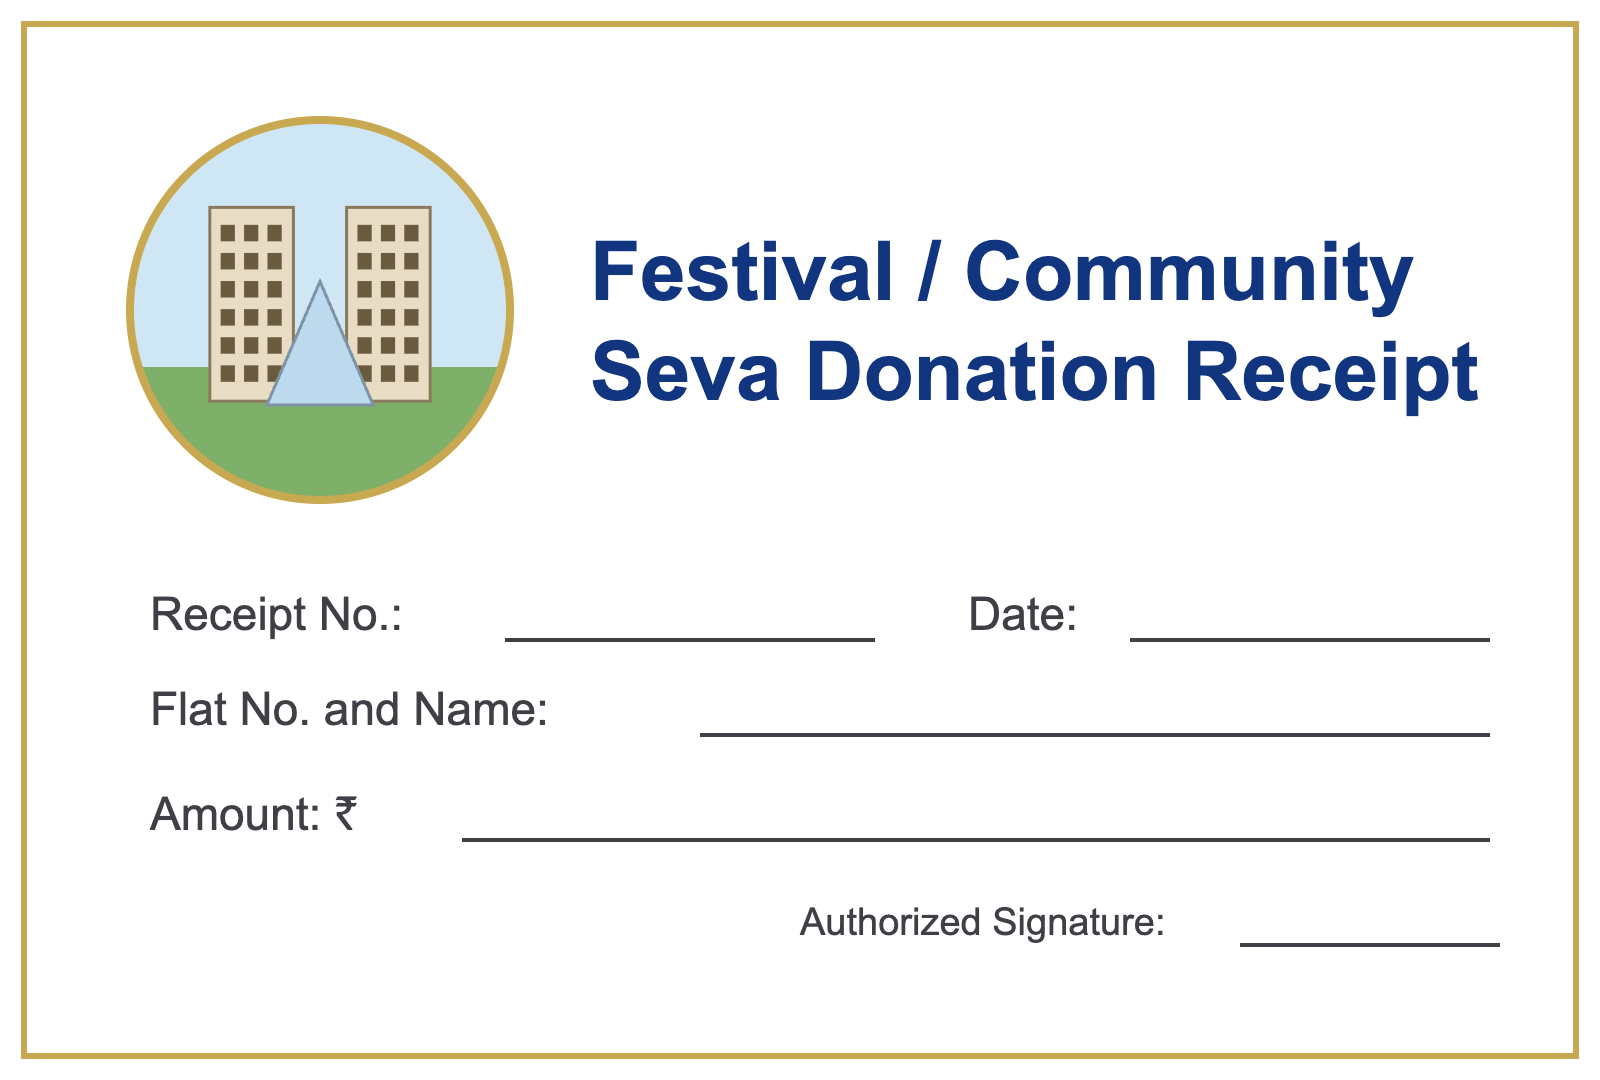
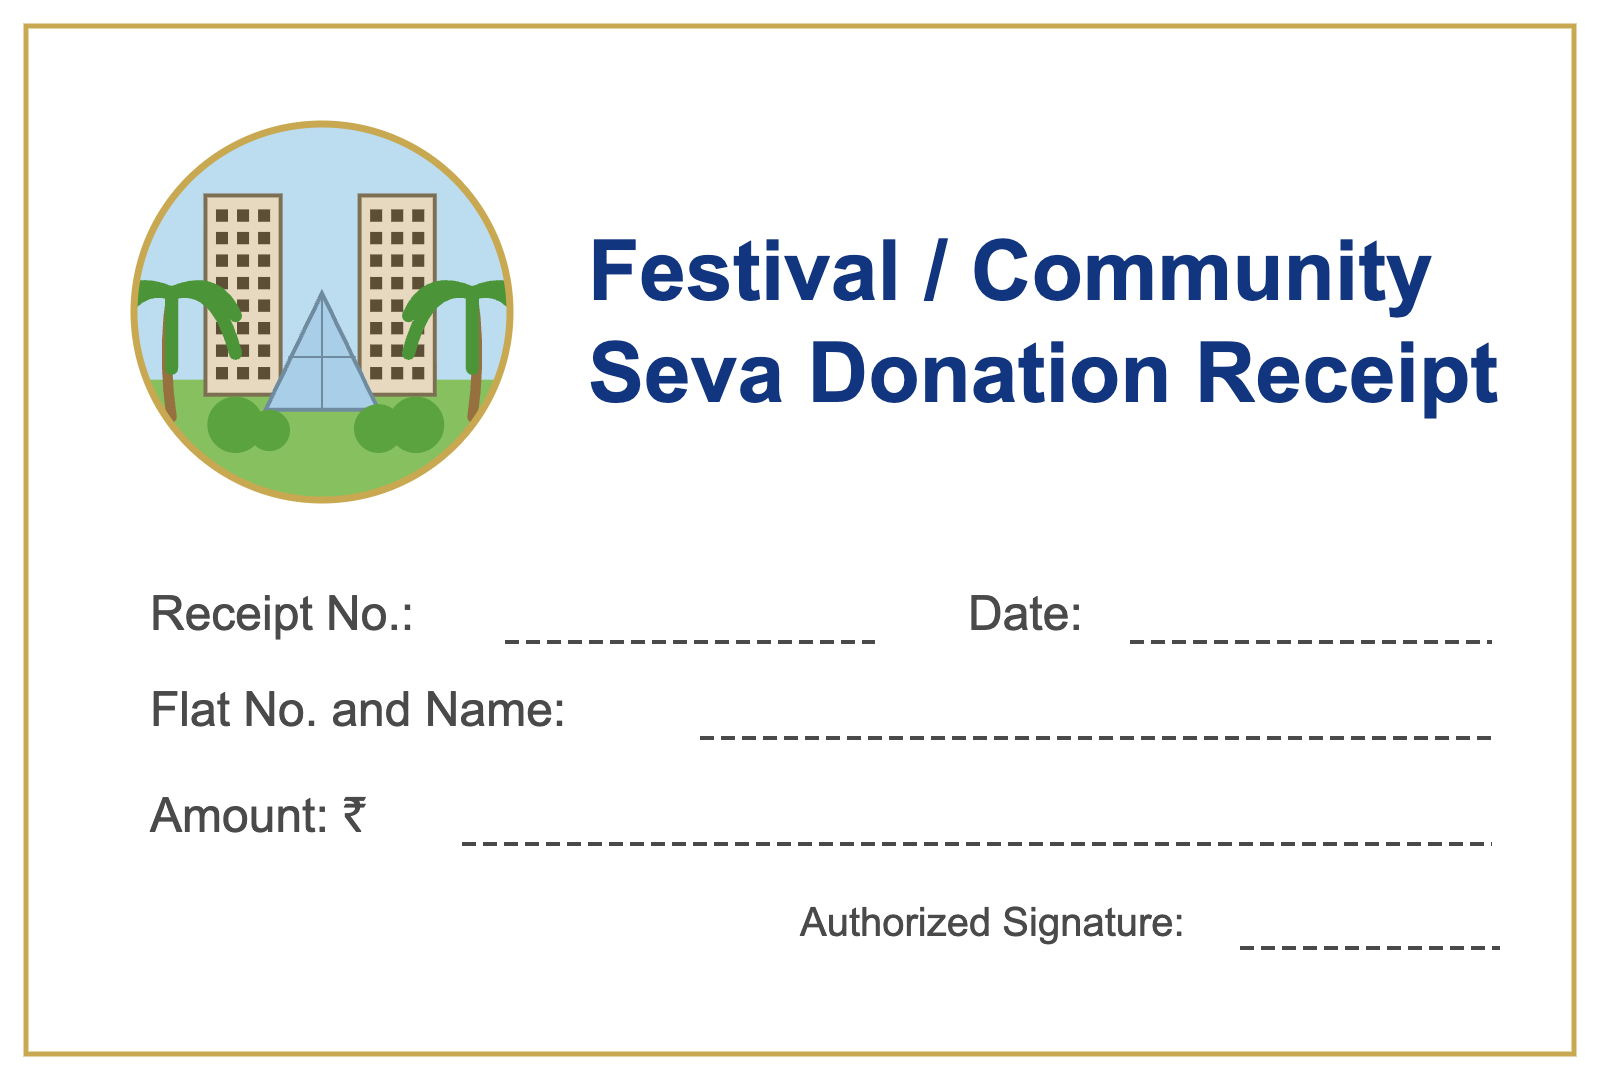
Add a RECEIVED stamp, and a closer likeness of the society artwork
Stamp: an angled, double-ruled mark in stamp-ink green with the date inside,
placed bottom-left where it clears every field and the signature line. It only
appears once an amount is entered — a blank form must never look as though
money has already been taken. Drawn on both the artwork and the fallback
rendering so the two stay identical.

Artwork: rebuilt the template to match the committee's design more closely —
detailed towers, glass atrium, palms, bushes, and dashed field rules rather
than solid ones, which is what the printed pad actually uses.

Also moved the amount-in-words clear of the rule beneath it; it was sitting on
the dashes and both were hard to read.

diff --git a/public/receipt-generator.html b/public/receipt-generator.html
@@ -152,7 +152,7 @@
   <h1>Seva Donation Receipt</h1>
   <p class="sub">
     Fill in what you have — every field is optional. The receipt updates as you type.
-    <span class="build">build v6 · artwork + send</span>
+    <span class="build">build v7 · received stamp</span>
   </p>
 
   <div class="card scan">
@@ -432,8 +432,68 @@
     if (d.amount) {
       ctx.fillStyle = "#3f3f46";
       ctx.font = "italic 400 " + Math.round(base * 0.58) + "px " + FONT_STACK;
-      ctx.fillText(inWords(d.amount), W * SLOTS.amount.x, H * (SLOTS.amount.y + 0.036));
+      // Clear of the printed rule beneath the amount, not sitting on it.
+      ctx.fillText(inWords(d.amount), W * SLOTS.amount.x, H * (SLOTS.amount.y + 0.058));
     }
+
+    if (d.amount) drawReceivedStamp(W, H, prettyDate(d.date));
+  }
+
+  /*
+   * The "RECEIVED" mark.
+   *
+   * Drawn like an inked rubber stamp — angled, double-ruled, slightly
+   * transparent so the printed rules stay visible underneath. Only appears once
+   * an amount is present: a blank form must never look like money has already
+   * been taken.
+   */
+  function drawReceivedStamp(W, H, dateText) {
+    var w = W * 0.255, h = H * 0.105;
+    var cx = W * 0.215, cy = H * 0.905;
+
+    ctx.save();
+    ctx.translate(cx, cy);
+    ctx.rotate(-9 * Math.PI / 180);
+    ctx.globalAlpha = 0.82;
+
+    var green = "#1a7a4a";
+    ctx.strokeStyle = green;
+    ctx.fillStyle = green;
+
+    // Double rule, as a real stamp leaves.
+    ctx.lineWidth = Math.max(3, H * 0.006);
+    ctx.strokeRect(-w / 2, -h / 2, w, h);
+    ctx.lineWidth = Math.max(2, H * 0.0028);
+    ctx.strokeRect(-w / 2 + H * 0.012, -h / 2 + H * 0.012, w - H * 0.024, h - H * 0.024);
+
+    ctx.textAlign = "center";
+    ctx.textBaseline = "middle";
+    ctx.font = "700 " + Math.round(H * 0.046) + "px " + FONT_STACK;
+    // Letter-spaced by hand; canvas has no letterSpacing everywhere yet.
+    var word = "RECEIVED";
+    var spacing = H * 0.009;
+    var widths = [];
+    var total = 0;
+    for (var i = 0; i < word.length; i++) {
+      var cw = ctx.measureText(word[i]).width;
+      widths.push(cw);
+      total += cw + (i < word.length - 1 ? spacing : 0);
+    }
+    var x = -total / 2;
+    var baseY = dateText ? -h * 0.10 : 0;
+    for (var j = 0; j < word.length; j++) {
+      ctx.fillText(word[j], x + widths[j] / 2, baseY);
+      x += widths[j] + spacing;
+    }
+
+    if (dateText) {
+      ctx.font = "600 " + Math.round(H * 0.021) + "px " + FONT_STACK;
+      ctx.fillText(dateText, 0, h * 0.26);
+    }
+
+    ctx.restore();
+    ctx.textAlign = "left";
+    ctx.textBaseline = "alphabetic";
   }
 
   function currentData() {
@@ -498,6 +558,8 @@
     ctx.fillText(sig, sigX, 930);
     ctx.strokeStyle = INK; ctx.lineWidth = 3;
     ctx.beginPath(); ctx.moveTo(sigX + sigW + 12, 940); ctx.lineTo(W - 90, 940); ctx.stroke();
+
+    if (d.amount) drawReceivedStamp(W, H, prettyDate(d.date));
 
     $("words").textContent = d.amount ? inWords(d.amount) : "";
     save();
